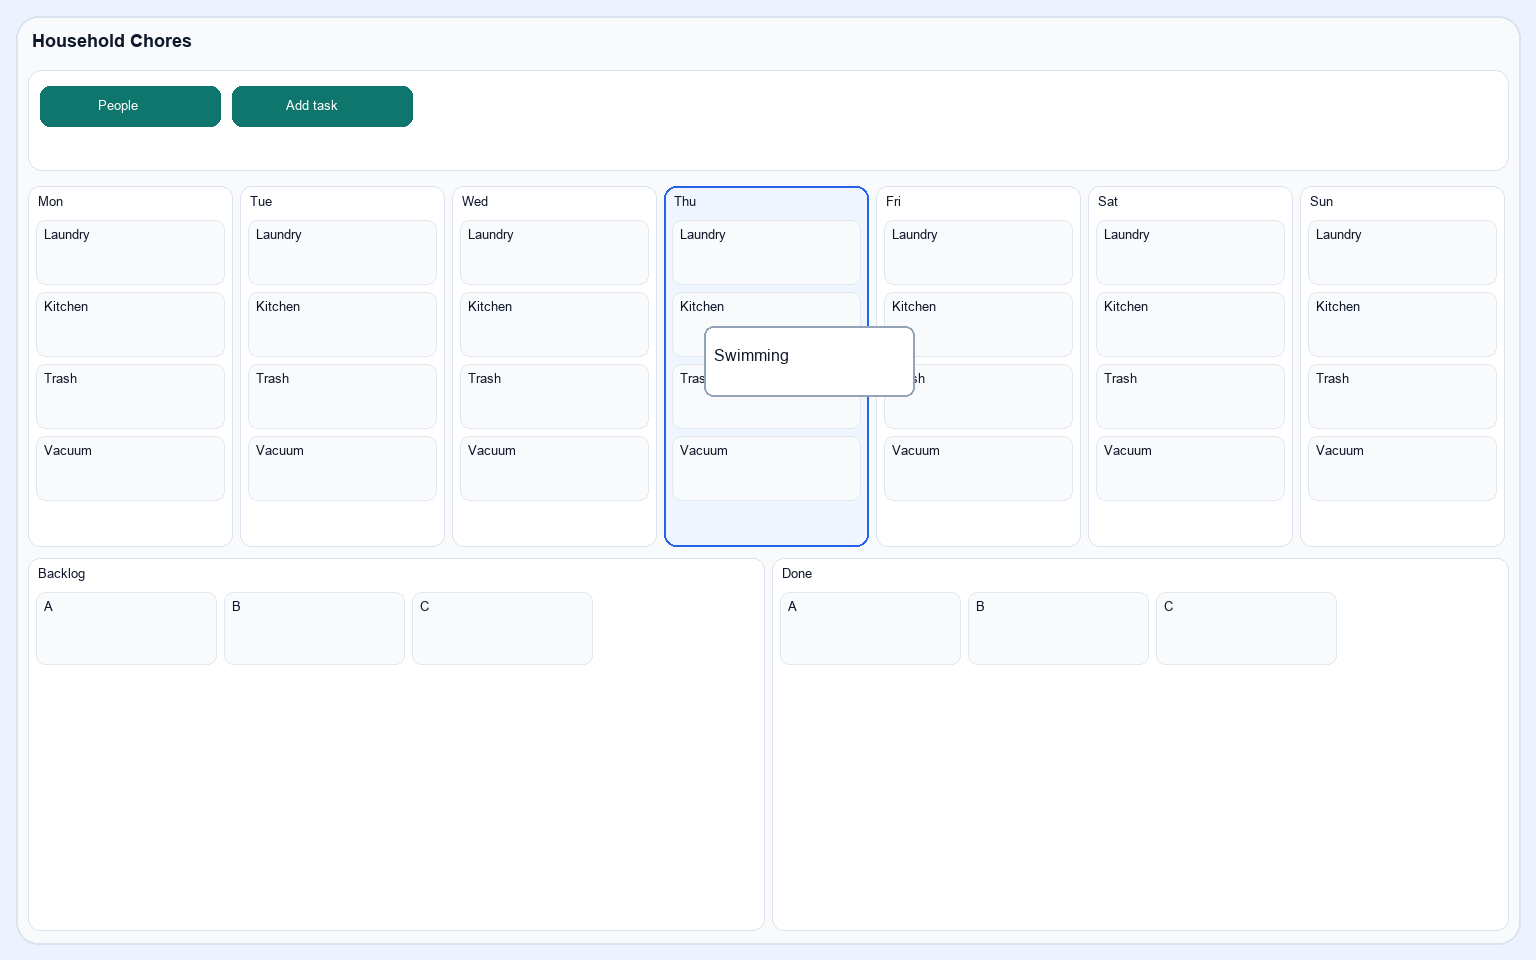
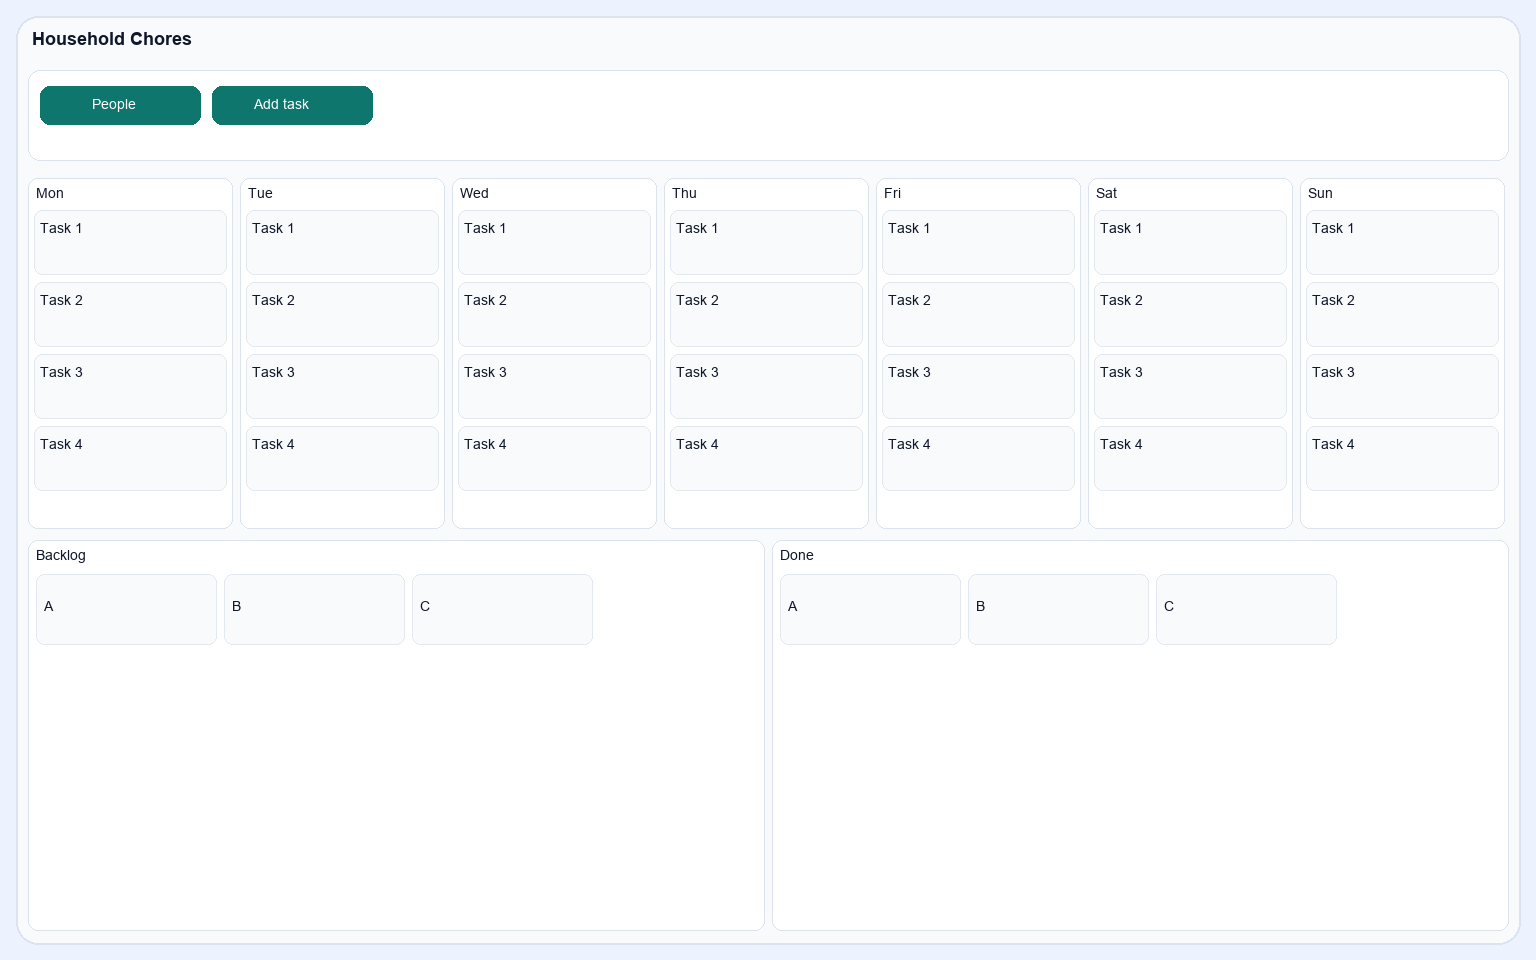
Fix websocket command registration and fit weekdays to screen

diff --git a/custom_components/household_chores/frontend/household-chores-card.js b/custom_components/household_chores/frontend/household-chores-card.js
@@ -637,8 +637,8 @@ class HouseholdChoresCard extends HTMLElement {
         .assignees label { display: flex; align-items: center; gap: 5px; font-size: 0.78rem; }
 
         .columns-wrap { display: grid; gap: 10px; }
-        .week-scroll { overflow-x: auto; padding-bottom: 2px; }
-        .week-columns { display: grid; grid-template-columns: repeat(7, minmax(170px, 1fr)); gap: 8px; min-width: 860px; }
+        .week-scroll { overflow-x: hidden; padding-bottom: 2px; }
+        .week-columns { display: grid; grid-template-columns: repeat(7, minmax(0, 1fr)); gap: 8px; min-width: 0; }
         .side-columns { display: grid; grid-template-columns: 1fr 1fr; gap: 8px; }
 
         .column {
@@ -752,8 +752,10 @@ class HouseholdChoresCard extends HTMLElement {
 
         @media (max-width: 900px) {
           .top { grid-template-columns: 1fr; }
-          .week-columns { min-width: 820px; }
+          .week-columns { grid-template-columns: repeat(7, minmax(0, 1fr)); }
           .side-columns { grid-template-columns: 1fr; }
+          .column h3 { font-size: 0.78rem; }
+          .task-title { font-size: 0.75rem; }
         }
       </style>
 

diff --git a/custom_components/household_chores/__init__.py b/custom_components/household_chores/__init__.py
@@ -33,6 +33,21 @@ from .websocket_api import async_register as async_register_ws
 _LOGGER = logging.getLogger(__name__)
 
 
+async def async_setup(hass: HomeAssistant, _config: dict[str, Any]) -> bool:
+    """Set up Household Chores domain-level resources."""
+    domain_data = hass.data.setdefault(DOMAIN, {})
+    domain_data.setdefault("logger", _LOGGER)
+    domain_data.setdefault("boards", {})
+    domain_data.setdefault("entry_unsubs", {})
+    if not domain_data.get("ws_registered"):
+        async_register_ws(hass)
+        domain_data["ws_registered"] = True
+    if not domain_data.get("card_registered"):
+        await async_register_card(hass)
+        domain_data["card_registered"] = True
+    return True
+
+
 def _as_list(raw: Any, fallback: list[str]) -> list[str]:
     """Normalize raw config value to a list of non-empty strings."""
     if isinstance(raw, list):
@@ -58,13 +73,6 @@ async def async_setup_entry(hass: HomeAssistant, entry: ConfigEntry) -> bool:
     domain_data.setdefault("logger", _LOGGER)
     domain_data.setdefault("boards", {})
     domain_data.setdefault("entry_unsubs", {})
-
-    if not domain_data.get("ws_registered"):
-        async_register_ws(hass)
-        domain_data["ws_registered"] = True
-    if not domain_data.get("card_registered"):
-        await async_register_card(hass)
-        domain_data["card_registered"] = True
 
     name = entry.options.get(CONF_NAME, entry.data.get(CONF_NAME, DEFAULT_NAME))
     members = _as_list(entry.options.get(CONF_MEMBERS, entry.data.get(CONF_MEMBERS)), DEFAULT_MEMBERS)

diff --git a/README.md b/README.md
@@ -5,6 +5,7 @@ Household Chores is a HACS-installable custom integration for a weekly household
 ## What you get
 
 - Main week row: Monday to Sunday
+- Weekday columns are compressed to fit screen width (no horizontal week scroll)
 - Secondary row: Backlog + Done in a 2-column grid below the week
 - People with unique colored circular badges and first-letter initials
 - Compact mobile-first actions: `People` and `Add task` buttons open modal forms
@@ -69,6 +70,7 @@ The screenshots below are updated with each UI/layout release.
 ## Notes
 
 - The custom card JavaScript is auto-registered by the integration at startup.
+- If you update from older versions, restart Home Assistant to reload websocket commands/resources.
 - Default chores/members entered during integration setup are used as starter board data.
 - The card layout is optimized for tablet-sized dashboards (including iPad-width screens).
 - Tasks moved to `Done` are automatically deleted nightly at `03:00` (Home Assistant local time).
